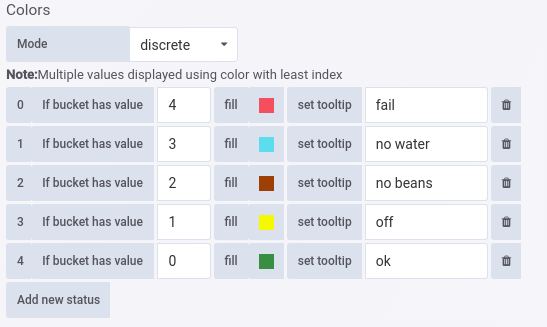
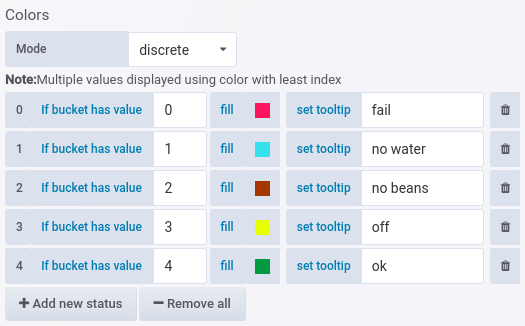
Images with new improvements in README.md

Changed region(s): [[0.0, 0.0, 1.0, 1.0], [0.3962, 0.1227, 0.4267, 0.1534]]

diff --git a/README.md b/README.md
@@ -94,6 +94,13 @@ Then, color mapping for status' values should be defined in __Discrete__ color m
 
 ![Color mapping](https://raw.githubusercontent.com/flant/grafana-statusmap/master/src/img/color-mapping.png)
 
+Use can use presets to define a trafic light colors or 8 colors from solarized palette:
+
+![Color mapping empty](https://raw.githubusercontent.com/flant/grafana-statusmap/master/src/img/color-mapping-preset-01.png)
+
+![Color mapping trafic lights](https://raw.githubusercontent.com/flant/grafana-statusmap/master/src/img/color-mapping-02.png)
+
+
 _Note: __Spectrum__ and __Opacity__ color modes function the same way they do in [Heatmap](https://grafana.com/plugins/heatmap) plugin._
 
 
@@ -114,7 +121,9 @@ __Null values__ can be treated as empty buckets or displayed with the color of `
 __Min width__ and __spacing__ are used to specify minimal bucket width and spacing between buckets.
 __Rounding__ may be used to round edges.
 
-![Min width, spacing, rounding](https://raw.githubusercontent.com/flant/grafana-statusmap/master/src/img/min-width-spacing-rounding.png)
+![Min width, spacing, rounding 1](https://raw.githubusercontent.com/flant/grafana-statusmap/master/src/img/min-width-spacing-rounding-01.png)
+
+![Min width, spacing, rounding 2](https://raw.githubusercontent.com/flant/grafana-statusmap/master/src/img/min-width-spacing-rounding-02.png)
 
 
 ## Development

diff --git a/dist/README.md b/dist/README.md
@@ -94,6 +94,13 @@ Then, color mapping for status' values should be defined in __Discrete__ color m
 
 ![Color mapping](https://raw.githubusercontent.com/flant/grafana-statusmap/master/src/img/color-mapping.png)
 
+Use can use presets to define a trafic light colors or 8 colors from solarized palette:
+
+![Color mapping empty](https://raw.githubusercontent.com/flant/grafana-statusmap/master/src/img/color-mapping-preset-01.png)
+
+![Color mapping trafic lights](https://raw.githubusercontent.com/flant/grafana-statusmap/master/src/img/color-mapping-02.png)
+
+
 _Note: __Spectrum__ and __Opacity__ color modes function the same way they do in [Heatmap](https://grafana.com/plugins/heatmap) plugin._
 
 
@@ -114,7 +121,9 @@ __Null values__ can be treated as empty buckets or displayed with the color of `
 __Min width__ and __spacing__ are used to specify minimal bucket width and spacing between buckets.
 __Rounding__ may be used to round edges.
 
-![Min width, spacing, rounding](https://raw.githubusercontent.com/flant/grafana-statusmap/master/src/img/min-width-spacing-rounding.png)
+![Min width, spacing, rounding 1](https://raw.githubusercontent.com/flant/grafana-statusmap/master/src/img/min-width-spacing-rounding-01.png)
+
+![Min width, spacing, rounding 2](https://raw.githubusercontent.com/flant/grafana-statusmap/master/src/img/min-width-spacing-rounding-02.png)
 
 
 ## Development
